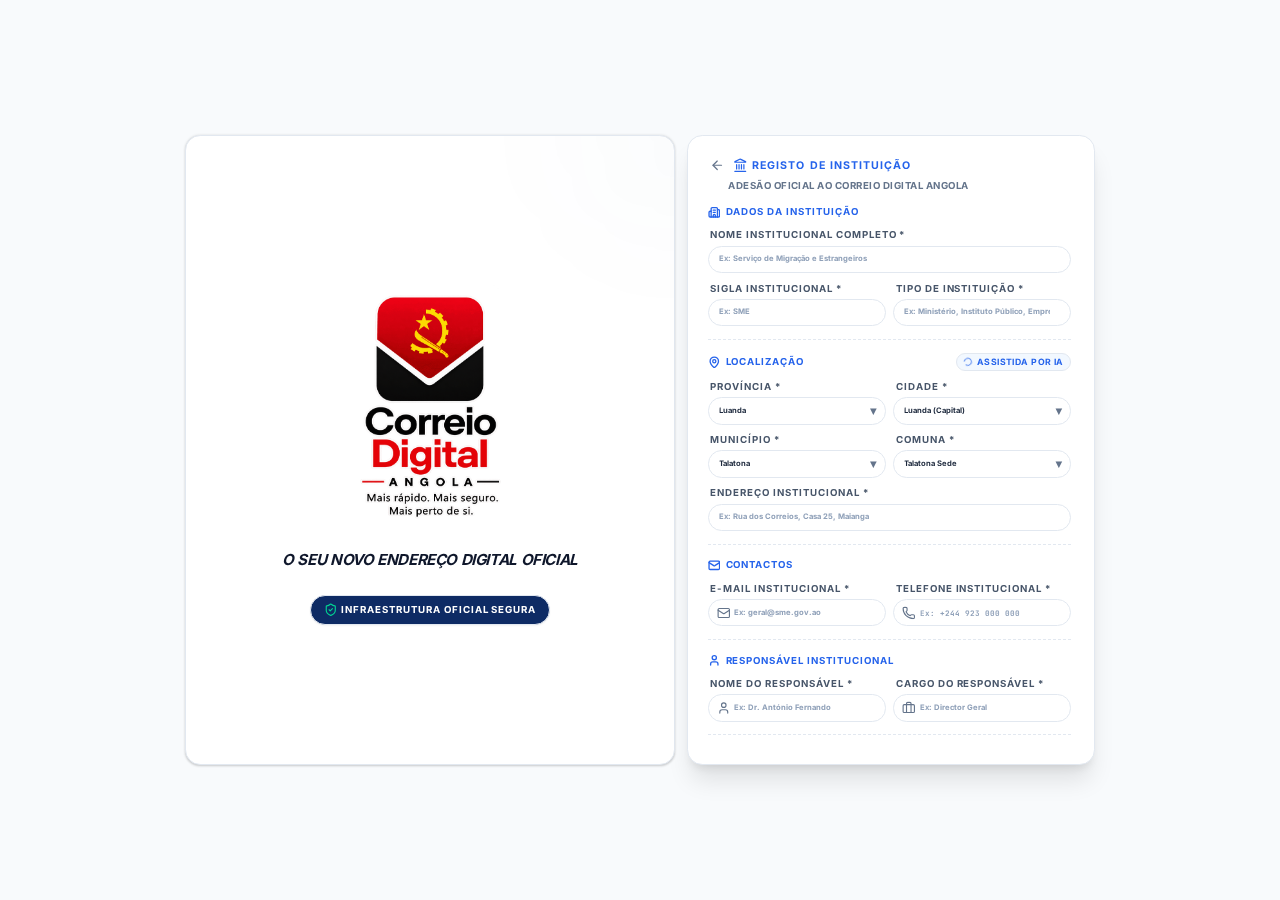
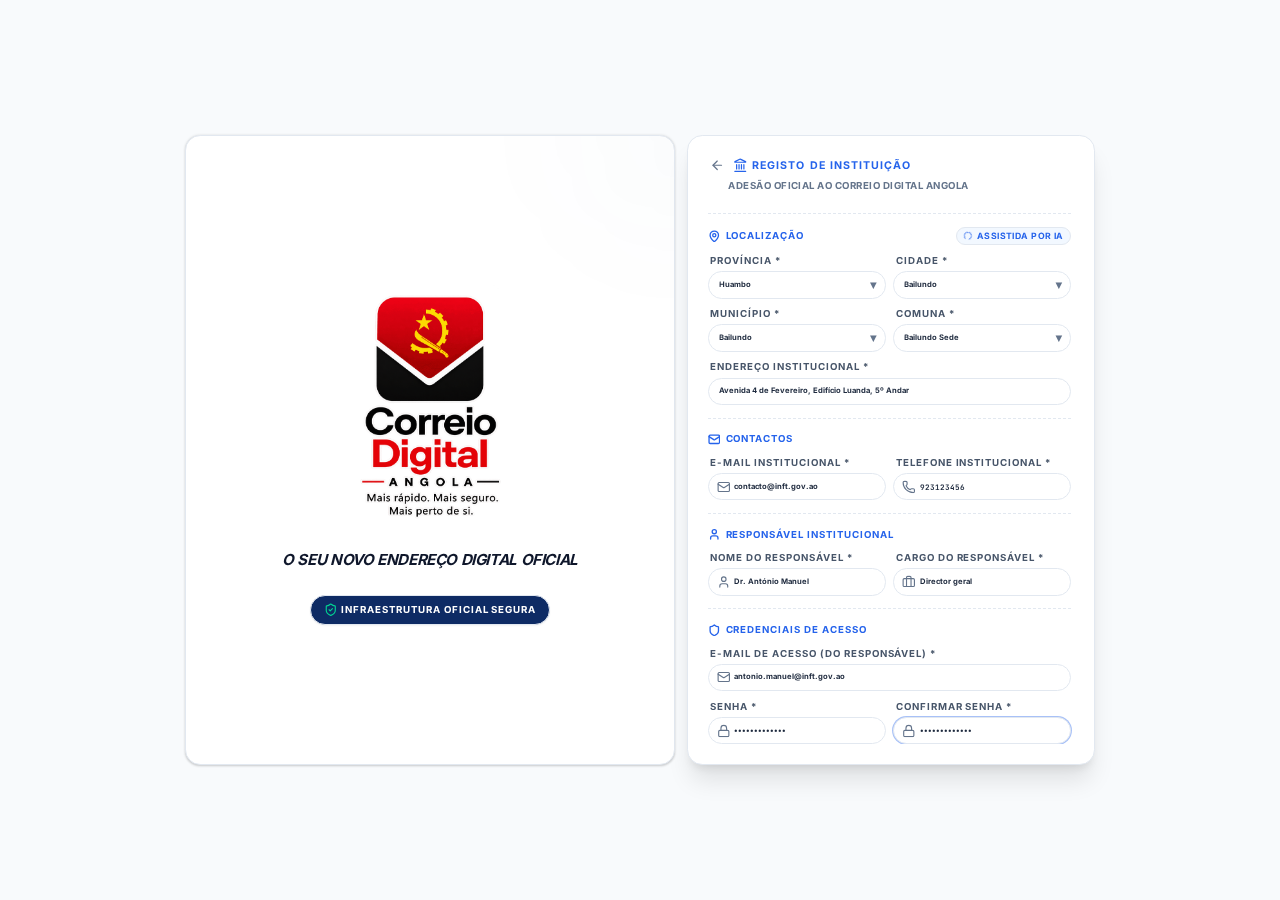
fix(localizacao): correcao da cascata bidireccional (vice-versa), uniao de catalogos, otimizacao de latencia e remocao de bloqueios

Changed region(s): [[0.5312, 0.2178, 0.8438, 0.84], [0.75, 0.2489, 0.8438, 0.28]]

diff --git a/src/components/features/RegisterInstitutionPage.tsx b/src/components/features/RegisterInstitutionPage.tsx
@@ -98,21 +98,34 @@ export function RegisterInstitutionPage({ onCancel, onSuccess, addAuditLog }: Re
     if (!siglaEdited) setSigla(generateSigla(v === '' ? 'I' : v));
   };
 
-  // Opções dinâmicas em cascata inteligente (IA + Catálogo Oficial)
+  // Lista oficial de províncias (21 Províncias DPA Angola 2025)
   const provincesList = Object.keys(MUNICIPALITIES_BY_PROVINCE).filter(p => p !== 'Todas');
-  const availableCities = iaCities.length > 0
-    ? iaCities
-    : (province ? (CITIES_BY_PROVINCE[province] || ['Sede']) : []);
 
-  const availableMunicipalities = iaMunicipalities.length > 0
-    ? iaMunicipalities
-    : ((province && cidade) ? (MUNICIPALITIES_BY_PROVINCE[province] || []).filter(m => m !== 'Todos') : []);
+  // Cidades disponíveis: união do catálogo local + sugestões da IA + valor actual
+  const rawCities = province ? (CITIES_BY_PROVINCE[province] || ['Sede']) : [];
+  const availableCities = Array.from(new Set([
+    ...(cidade ? [cidade] : []),
+    ...rawCities,
+    ...iaCities
+  ])).filter(Boolean);
 
-  const availableCommunes = iaCommunes.length > 0
-    ? iaCommunes
-    : (municipio ? (COMMUNES_BY_MUNICIPALITY[municipio] || [`${municipio} Sede`, 'Sede']) : []);
+  // Municípios disponíveis: união do catálogo local da província + sugestões da IA + valor actual
+  const rawMunis = province ? (MUNICIPALITIES_BY_PROVINCE[province] || []).filter(m => m !== 'Todos') : [];
+  const availableMunicipalities = Array.from(new Set([
+    ...(municipio ? [municipio] : []),
+    ...rawMunis,
+    ...iaMunicipalities
+  ])).filter(Boolean);
 
-  // Handlers da cascata: alterar pai limpa todos os filhos e atualiza a IA
+  // Comunas disponíveis: união do catálogo local do município + sugestões da IA + valor actual
+  const rawComunas = municipio ? (COMMUNES_BY_MUNICIPALITY[municipio] || [`${municipio} Sede`, 'Sede']) : [];
+  const availableCommunes = Array.from(new Set([
+    ...(comuna ? [comuna] : []),
+    ...rawComunas,
+    ...iaCommunes
+  ])).filter(Boolean);
+
+  // Handlers bidireccionais da cascata com suporte a IA:
   const onChangeProvince = (v: string) => {
     setProvince(v);
     setCidade('');
@@ -129,21 +142,36 @@ export function RegisterInstitutionPage({ onCancel, onSuccess, addAuditLog }: Re
 
   const onChangeCidade = (v: string) => {
     setCidade(v);
-    setMunicipio('');
-    setComuna('');
-    setIaMunicipalities([]);
-    setIaCommunes([]);
     setErr('cidade', '');
-    setErr('municipio', '');
-    setErr('comuna', '');
+    if (!v) {
+      setMunicipio('');
+      setComuna('');
+    } else {
+      // Se a cidade tiver o mesmo nome de um município (ex: Viana, Cacuaco, Cazenga, Bailundo), auto-seleciona
+      const matchMuni = rawMunis.find(m => m.toLowerCase() === v.toLowerCase());
+      if (matchMuni && !municipio) {
+        setMunicipio(matchMuni);
+        setErr('municipio', '');
+      }
+    }
   };
 
   const onChangeMunicipio = (v: string) => {
     setMunicipio(v);
     setComuna('');
-    setIaCommunes([]);
     setErr('municipio', '');
     setErr('comuna', '');
+
+    // Vice-versa: se a Cidade ainda não foi selecionada, deduzir a Cidade correspondente
+    if (v && (!cidade || cidade === '')) {
+      const matchCity = rawCities.find(c => c.toLowerCase() === v.toLowerCase() || c.toLowerCase().includes(v.toLowerCase()));
+      if (matchCity) {
+        setCidade(matchCity);
+      } else if (rawCities.length > 0) {
+        setCidade(rawCities[0]);
+      }
+      setErr('cidade', '');
+    }
   };
 
   const onChangeComuna = (v: string) => {
@@ -172,24 +200,24 @@ export function RegisterInstitutionPage({ onCancel, onSuccess, addAuditLog }: Re
           abortController.signal
         );
         if (!cancelled && resp) {
-          if (resp.cidades && resp.cidades.length > 0) setIaCities(resp.cidades);
-          if (resp.municipios && resp.municipios.length > 0) setIaMunicipalities(resp.municipios);
-          if (resp.comunas && resp.comunas.length > 0) setIaCommunes(resp.comunas);
+          if (Array.isArray(resp.cidades) && resp.cidades.length > 0) setIaCities(resp.cidades);
+          if (Array.isArray(resp.municipios) && resp.municipios.length > 0) setIaMunicipalities(resp.municipios);
+          if (Array.isArray(resp.comunas) && resp.comunas.length > 0) setIaCommunes(resp.comunas);
           if (resp.explicacao) setIaExplicacao(resp.explicacao);
         }
       } catch {
         const local = obterSugestoesLocais({ provincia: province, cidade, municipio, comuna });
         if (!cancelled) {
-          setIaCities(local.cidades);
-          setIaMunicipalities(local.municipios);
-          setIaCommunes(local.comunas);
+          if (local.cidades.length > 0) setIaCities(local.cidades);
+          if (local.municipios.length > 0) setIaMunicipalities(local.municipios);
+          if (local.comunas.length > 0) setIaCommunes(local.comunas);
         }
       } finally {
         if (!cancelled) setIsLoadingIaLocation(false);
       }
     };
 
-    const timer = setTimeout(fetchIaLocation, 150);
+    const timer = setTimeout(fetchIaLocation, 80);
     return () => {
       cancelled = true;
       clearTimeout(timer);
@@ -699,7 +727,7 @@ export function RegisterInstitutionPage({ onCancel, onSuccess, addAuditLog }: Re
               <div className="relative">
                 <select
                   value={municipio}
-                  disabled={!cidade}
+                  disabled={!province}
                   onChange={(e) => onChangeMunicipio(e.target.value)}
                   className={selectCls + (fieldErrors.municipio ? ' ' + errCls : '')}
                 >

diff --git a/server.ts b/server.ts
@@ -2958,16 +2958,22 @@ Gera as listas sugeridas de Cidades, Municípios e Comunas correspondentes.`;
 
       let parsedResult: any = null;
 
-      // 1. Tentar Gemini primeiro
+      // 1. Tentar Gemini primeiro (rápido, sem thinking overhead)
       if (ai) {
         try {
           const response = await Promise.race([
             ai.models.generateContent({
               model: "gemini-3.6-flash",
               contents: [{ role: "user", parts: [{ text: userPrompt }] }],
-              config: { systemInstruction: systemPrompt, temperature: 0.1, responseMimeType: "application/json" },
+              config: {
+                systemInstruction: systemPrompt,
+                temperature: 0,
+                maxOutputTokens: 512,
+                responseMimeType: "application/json",
+                thinkingConfig: { thinkingBudget: 0 }
+              },
             }),
-            new Promise<never>((_, reject) => setTimeout(() => reject(new Error('GEMINI_TIMEOUT')), 5000)),
+            new Promise<never>((_, reject) => setTimeout(() => reject(new Error('GEMINI_TIMEOUT')), 2000)),
           ]);
           if (response && response.text) {
             parsedResult = JSON.parse(response.text);
@@ -2980,15 +2986,19 @@ Gera as listas sugeridas de Cidades, Municípios e Comunas correspondentes.`;
       // 2. Tentar Groq fallback
       if (!parsedResult && groq) {
         try {
-          const completion = await groq.chat.completions.create({
-            messages: [
-              { role: "system", content: systemPrompt },
-              { role: "user", content: userPrompt }
-            ],
-            model: "openai/gpt-oss-120b",
-            temperature: 0.1,
-            response_format: { type: "json_object" },
-          });
+          const completion = await Promise.race([
+            groq.chat.completions.create({
+              messages: [
+                { role: "system", content: systemPrompt },
+                { role: "user", content: userPrompt }
+              ],
+              model: "openai/gpt-oss-120b",
+              temperature: 0,
+              max_tokens: 512,
+              response_format: { type: "json_object" },
+            }),
+            new Promise<never>((_, reject) => setTimeout(() => reject(new Error('GROQ_TIMEOUT')), 2000)),
+          ]);
           const text = completion.choices?.[0]?.message?.content;
           if (text) {
             parsedResult = JSON.parse(text);

diff --git a/api/index.ts b/api/index.ts
@@ -1453,9 +1453,15 @@ Gera as listas sugeridas de Cidades, Municípios e Comunas correspondentes.`;
             ai.models.generateContent({
               model: "gemini-3.6-flash",
               contents: [{ role: "user", parts: [{ text: userPrompt }] }],
-              config: { systemInstruction: systemPrompt, temperature: 0.1, responseMimeType: "application/json" },
+              config: {
+                systemInstruction: systemPrompt,
+                temperature: 0,
+                maxOutputTokens: 512,
+                responseMimeType: "application/json",
+                thinkingConfig: { thinkingBudget: 0 }
+              },
             }),
-            new Promise<never>((_, reject) => setTimeout(() => reject(new Error('GEMINI_TIMEOUT')), 5000)),
+            new Promise<never>((_, reject) => setTimeout(() => reject(new Error('GEMINI_TIMEOUT')), 2000)),
           ]);
           if (response && response.text) {
             parsedResult = JSON.parse(response.text);
@@ -1467,15 +1473,19 @@ Gera as listas sugeridas de Cidades, Municípios e Comunas correspondentes.`;
 
       if (!parsedResult && groq) {
         try {
-          const completion = await groq.chat.completions.create({
-            messages: [
-              { role: "system", content: systemPrompt },
-              { role: "user", content: userPrompt }
-            ],
-            model: "openai/gpt-oss-120b",
-            temperature: 0.1,
-            response_format: { type: "json_object" },
-          });
+          const completion = await Promise.race([
+            groq.chat.completions.create({
+              messages: [
+                { role: "system", content: systemPrompt },
+                { role: "user", content: userPrompt }
+              ],
+              model: "openai/gpt-oss-120b",
+              temperature: 0,
+              max_tokens: 512,
+              response_format: { type: "json_object" },
+            }),
+            new Promise<never>((_, reject) => setTimeout(() => reject(new Error('GROQ_TIMEOUT')), 2000)),
+          ]);
           const text = completion.choices?.[0]?.message?.content;
           if (text) {
             parsedResult = JSON.parse(text);

diff --git a/src/services/institutionRegistrationStore.ts b/src/services/institutionRegistrationStore.ts
@@ -316,12 +316,12 @@ export const countExistingAgents = async (
   
   try {
     // Consultar na tabela profiles todos os agentes desta instituição
-    // O código da instituição fica no campo 'bi' (ou 'instituicao' no metadata)
+    // O código da instituição fica no campo 'bi' (ex: SME-LLVV-01)
     const { data, error } = await supabase
       .from('profiles')
       .select('bi')
       .eq('role', 'instituicao')
-      .or(`bi.eq.${code},bi.like.${code}-%,instituicao.eq.${code}`)
+      .or(`bi.eq.${code},bi.like.${code}-%`)
       .limit(1000);
     
     if (error) {
